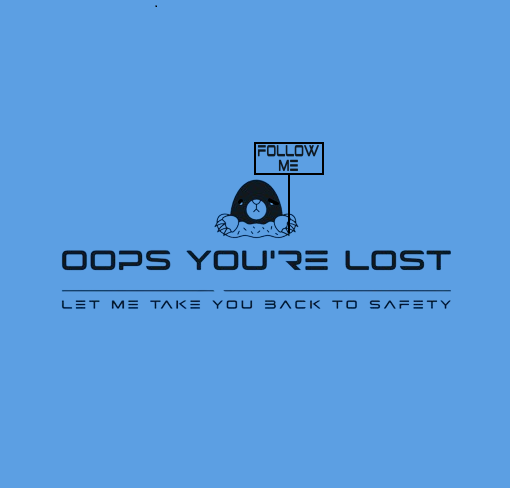
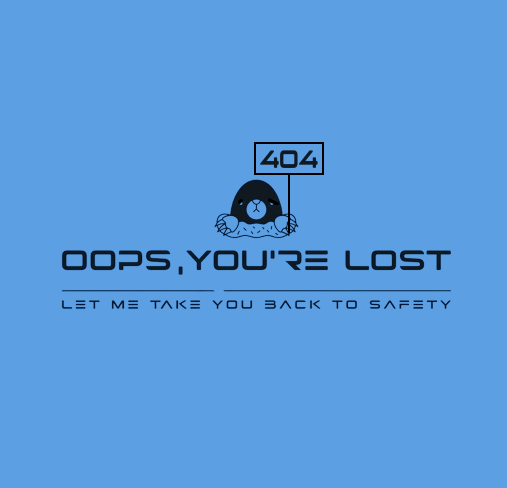
dodano funkcjonalnosc znikania pustych list w game details, zmieniono 404.png

diff --git a/Projekt.V2.O/src/pages/gameDetail/GameDetailLists.jsx b/Projekt.V2.O/src/pages/gameDetail/GameDetailLists.jsx
@@ -4,20 +4,22 @@ import ModifyGameButton from "../buttons/ModifyGameButton";
 export default function GameDetailLists({ gameDetail }) {
   return (
     <div style={{ display: "flex" }}>
-      <ul>
-        <h2>Platforms</h2>
-        {gameDetail?.platforms.map((platform) => (
-          <li key={platform.platform.name}>{platform.platform.name}</li>
-        ))}
-      </ul>
-
-      <ul style={{ marginRight: "20px" }}>
-        <h2>Genres</h2>
-        {gameDetail?.genres.map((genre) => (
-          <li key={genre.name}>{genre.name}</li>
-        ))}
-      </ul>
-
+      {gameDetail?.platforms?.length > 0 && (
+        <ul>
+          <h2>Platforms</h2>
+          {gameDetail?.platforms.map((platform) => (
+            <li key={platform.platform.name}>{platform.platform.name}</li>
+          ))}
+        </ul>
+      )}
+      {gameDetail?.genres?.length > 0 && (
+        <ul style={{ marginRight: "20px" }}>
+          <h2>Genres</h2>
+          {gameDetail?.genres.map((genre) => (
+            <li key={genre.name}>{genre.name}</li>
+          ))}
+        </ul>
+      )}
       <ul>
         {gameDetail?.my_developers?.length > 0 && (
           <div>
